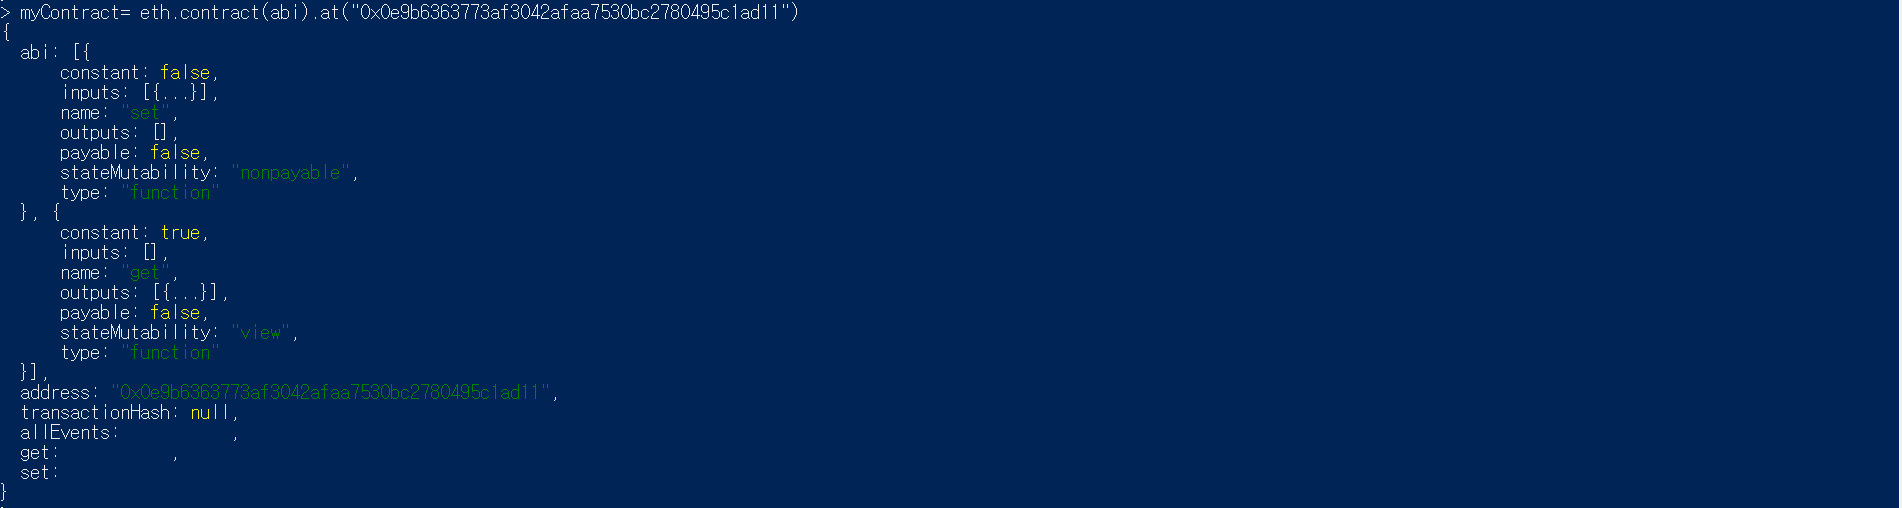
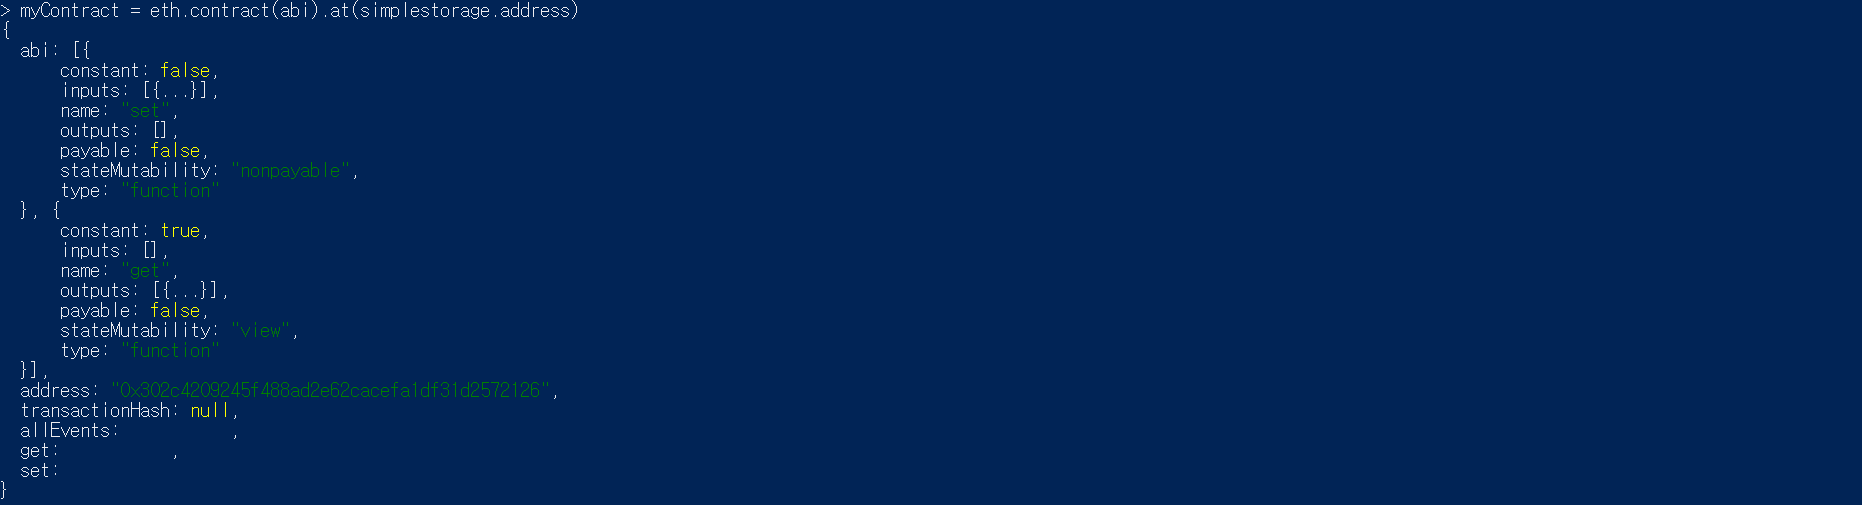
[Basic Publishing] 배포 후 사용 예제 완료

diff --git a/BasicPublishing/Readme.md b/BasicPublishing/Readme.md
@@ -46,24 +46,24 @@
 
   // ABI 예시
   [
-  	{
-  		"constant":false,
-  			"inputs":[{"name":"x","type":"uint256"}],
-  			"name":"set",
-  			"outputs":[],
-  			"payable":false,
-  			"stateMutability":"nonpayable",
-  			"type":"function"
-  	},
-  	{
-  	 	"constant":true,
-  	 	"inputs":[],
-  	 	"name":"get",
-  	 	"outputs":[{"name":"","type":"uint256"}],
-  	 	"payable":false,
-  	 	"stateMutability":"view",
-  	 	"type":"function"
-  	}
+    {
+      "constant":false,
+      "inputs":[{"name":"x","type":"uint256"}],
+      "name":"set",
+      "outputs":[],
+      "payable":false,
+      "stateMutability":"nonpayable",
+      "type":"function"
+    },
+    {
+      "constant":true,
+      "inputs":[],
+      "name":"get",
+      "outputs":[{"name":"","type":"uint256"}],
+      "payable":false,
+      "stateMutability":"view",
+      "type":"function"
+    }
   ]
   ```
 
@@ -87,6 +87,7 @@
 
   ### 3. 스마트 컨트랙트 배포
   - 생성한 스마트 컨트랙트 객체를 실제로 블럭에 포함시켜, 채굴될 수 있도록 하는 과정
+  - input 에 data 가 저장되며 byte code 량에 따라 gas 량이 달라지므로 gas량을 반드시 고려해야 한다.
   - `[스마트컨트랙트 객체].new([생성자], object)`
     - object는 [송금 예제](https://github.com/Lee-KyungSeok/Ethereum-Study/tree/master/BasicGeth) 참고
     - object 의 값 중에 `data` 영역에 remix 에서 만든 ByteCode를 넣도록 한다.
@@ -97,8 +98,9 @@
 
   ```javascript
   simplestorage = simplestorageContract.new({
-    from: eth.accounts[0],
[1 lines of base64/hex data omitted]
+      from: web3.eth.accounts[0],
[1 lines of base64/hex data omitted]
+      gas: '470000'
   })
   ```
 
@@ -108,11 +110,19 @@
   - 위 그림에서 Address 가 undefined 라는 것을 알 수 있다. 즉, 해당 트랜잭션이 아직 채굴되지 않은 상태라는 뜻
   - 채굴이 완료되면 `Address` 가 생기고 이 `Address` 를 이용하여 스마트 컨트랙트를 사용할 수 있게 된다.
     - 원래 채굴 후 만든 컨트랙트를 입력하면 나온다. (ex> simplestorage)
-    - 그러나 버그가 가끔 발생하므로 `eth.getTransactionReceipt([TXID])` 에서 주소 확인하도록 한다. (작성하면서 버그떠서... 해시가 조금 다를 수 있음 참고 바람)
+    - 그러나 버그가 가끔 발생했을때는 `eth.getTransactionReceipt([TXID])` 에서 주소 확인 가능 (작성하면서 버그떠서... 해시가 조금 다를 수 있음 참고 바람)
 
   ```javascript
+  simplestorage
+  // 혹은
[1 lines of base64/hex data omitted]
   ```
+
+  - 잘나오는 경우 (simplestorage)
+
+  ![](https://github.com/Lee-KyungSeok/Ethereum-Study/blob/master/BasicPublishing/picture/publish5.png)
+
+  - 안나온 경우 (getTransactionReceipt)
 
   ![](https://github.com/Lee-KyungSeok/Ethereum-Study/blob/master/BasicPublishing/picture/publish3.png)
 
@@ -124,13 +134,32 @@
   - `eth.contract([ABI]).at([ADDRESS])`
 
   ```javascript
-  myContract= eth.contract(abi).at("0x0e9b6363773af3042afaa7530bc2780495c1ad11")
+  // 주소를 직접 사용
+  myContract= eth.contract(abi).at("0x302c4209245f488ad2e62cacefa1df31d2572126")
+
+  // 컨트랙트에서 가져옴
+  myContract= eth.contract(abi).at(simplestorage.address)
   ```
 
   ![](https://github.com/Lee-KyungSeok/Ethereum-Study/blob/master/BasicPublishing/picture/publish4.png)
 
   ### 2. 함수 실행 (get)
-  - dd
+  - `get` 의 경우 이더를 사용하지 않고 Transaction 또한 발생하지 않는 것을 알 수 있다.
+  - 즉, 값을 변화시키지 않는 것은 블록상에 저장되지 않고, 비용또한 들지 않는다.
+
+  ```javascript
+  myContract.get.call()
+  ```
+
+  ![](https://github.com/Lee-KyungSeok/Ethereum-Study/blob/master/BasicPublishing/picture/use1.png)
 
   ### 3. 함수 실행 (set)
-  - dd
+  - set 의 경우 값을 바꿔야 하므로 `sendTransaction` 을 통해 트랜잭션을 보내주어야 한다.
+  - 이 경우 트랜잭션이 생성되며, 이 트랙잭션이 블록에서 채굴되면 컨트랙트가 실행되게 된다.
+
+  ```javascript
+  // storedData 변수를 1000으로 변경
+  myContract.set.sendTransaction(1000, {from:eth.accounts[0], gas:1000000})
+  ```
+
+  ![](https://github.com/Lee-KyungSeok/Ethereum-Study/blob/master/BasicPublishing/picture/use2.png)
